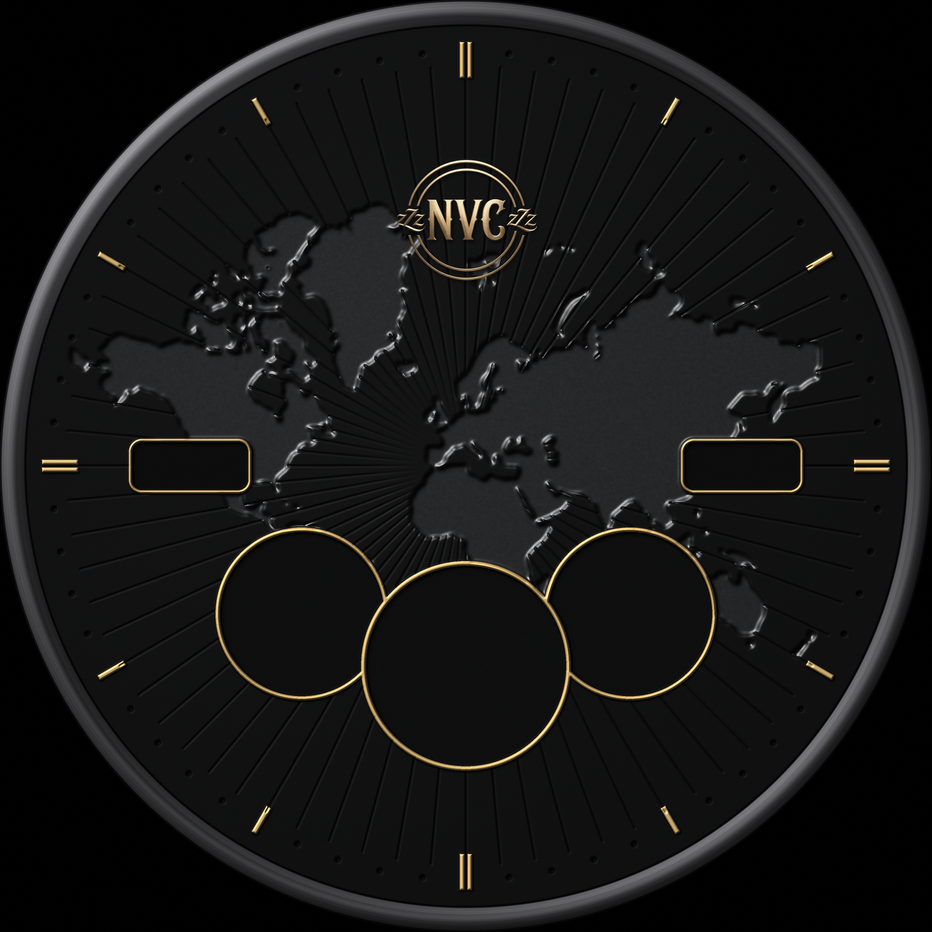
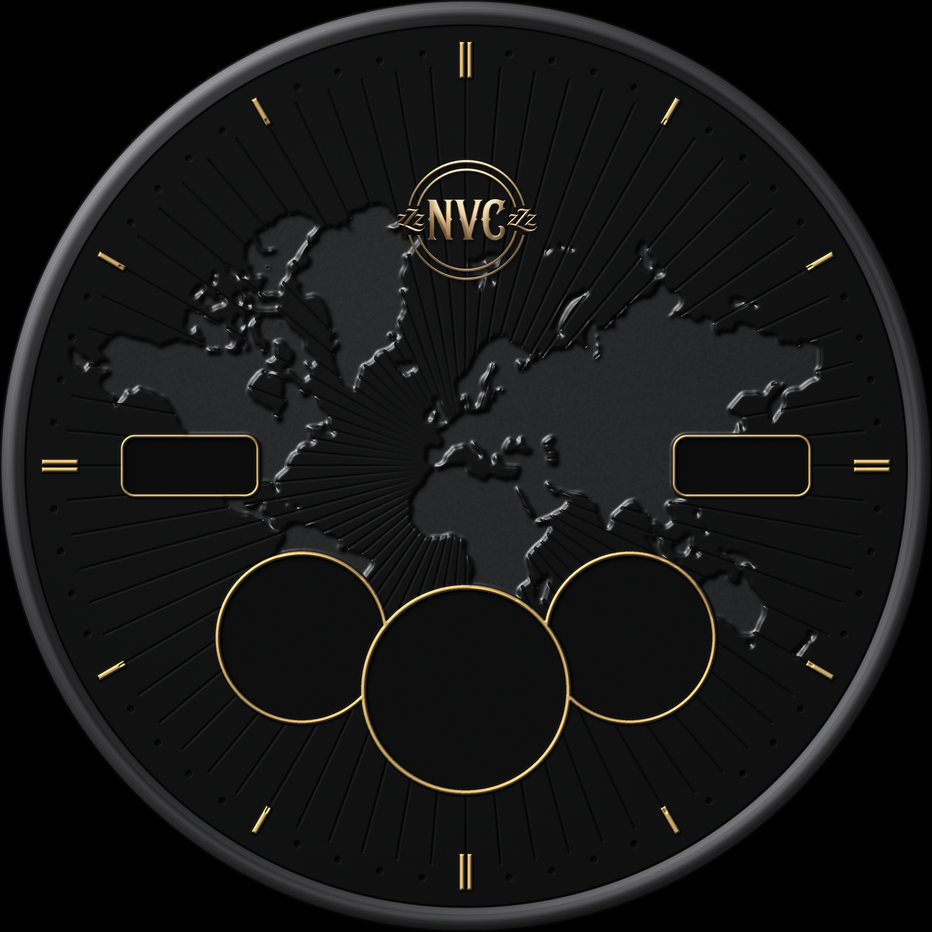
fix: larger date and battery windows, sub-dials 12 px lower

Changed region(s): [[0.2178, 0.4667, 0.8712, 0.8712], [0.1245, 0.4667, 0.28, 0.5601]]

diff --git a/art/blender/current.py b/art/blender/current.py
@@ -82,8 +82,8 @@ dial.data.materials.append(dial_material())
 wk.lathe("bezel", [(220.6, 0.05), (221.3, 0.45), (223.5, 0.70), (229.5, 0.66), (232.6, 0.35), (233, 0.0),
                    (233, -1.0)], BEZEL)
 
-CENTER = (0.0, 100.0, 50.0, 52.4)
-SIDES = [(-82.0, 74.0, 41.0, 43.2), (82.0, 74.0, 41.0, 43.2)]
+CENTER = (0.0, 112.0, 50.0, 52.4)   # must match art/render_bg.py
+SIDES = [(-82.0, 86.0, 41.0, 43.2), (82.0, 86.0, 41.0, 43.2)]
 # gold rims. The centre dial sits on top (design §5.3): its rim is whole and the side rims stop
 # against it, so nothing of the side dials shows inside the centre one (user, 2026-11-23).
 cx_, cy_, r_, ro_ = CENTER
@@ -93,8 +93,8 @@ for i, (x, y, r, ro) in enumerate(SIDES):
 wk.torus("rim_centre", cx_, cy_, (r_ + ro_) / 2, (ro_ - r_) / 20 + 0.03, 0.05, GOLD_POL)
 
 for i, (x, y) in enumerate([(138.0, 0.0), (-138.0, 0.0)]):
-    fr = wk.box(f"win_frame{i}", x, y, 61.2, 27.2, -0.02, 0.08, 0, GOLD, bevel=0.04)
-    wk.boolean_cut(fr, wk.box(f"cut_frame{i}", x, y, 58, 24, -1, 1, 0, BLACK, bevel=0))
+    fr = wk.box(f"win_frame{i}", x, y, 69.2, 31.2, -0.02, 0.08, 0, GOLD, bevel=0.04)  # window 66x28 + 1.6 frame
+    wk.boolean_cut(fr, wk.box(f"cut_frame{i}", x, y, 66, 28, -1, 1, 0, BLACK, bevel=0))
 
 # gold indices: double bars at 12, 3, 6 and 9; single bars elsewhere
 for h in range(12):

diff --git a/art/render_bg.py b/art/render_bg.py
@@ -29,10 +29,10 @@ DIAL_R = 219.6
 BEZEL_IN, BEZEL_OUT = 221.0, 233.0
 # sub-esferas: x, y, radio del fondo, radio exterior del aro.
 # La central es mayor y queda por encima: su aro corta los de las laterales.
-CENTER_WELL = (0.0, 100.0, 50.0, 52.4)   # mas grande y mas abajo a peticion del usuario (2026-11-23); era (0, 88, 44, 46.4)
-SIDE_WELLS = [(-82.0, 74.0, 41.0, 43.2), (82.0, 74.0, 41.0, 43.2)]   # era (+-72, 62, 36, 38.2)
+CENTER_WELL = (0.0, 112.0, 50.0, 52.4)   # 12 mas abajo a peticion del usuario (2026-11-23); antes (0, 100) y (0, 88, 44, 46.4)
+SIDE_WELLS = [(-82.0, 86.0, 41.0, 43.2), (82.0, 86.0, 41.0, 43.2)]   # antes (+-82, 74) y (+-72, 62, 36, 38.2)
 WELLS = [CENTER_WELL] + SIDE_WELLS
-WIN_W, WIN_H, WIN_RAD, WIN_FRAME = 58.0, 24.0, 5.0, 1.6   # agrandadas a peticion del usuario (2026-11-23)
+WIN_W, WIN_H, WIN_RAD, WIN_FRAME = 66.0, 28.0, 5.5, 1.6   # agrandadas a peticion del usuario (2026-11-23; antes 58x24 y 46x19)
 WINDOWS = [(138.0, 0.0), (-138.0, 0.0)]               # 3 h: fecha | 9 h: bateria
 LOGO_CX, LOGO_CY, LOGO_W = 0.0, -123.0, 72.0   # subido 17 a peticion del usuario (2026-11-23); era -106
 

diff --git a/docs/superpowers/specs/2026-11-22-nvc-watchface-design.md b/docs/superpowers/specs/2026-11-22-nvc-watchface-design.md
@@ -101,11 +101,11 @@ cierran canales de menos de ~1,7 unidades.
 | Índices del resto de horas | una barra r 197–212, 2,6 de ancho |
 | Puntos de minutería | r 207, radio 1,3; no hay punto en las horas |
 | Logo NVC | centrado en **(233, 110)** (subido el 2026-11-23; era (233, 127)), 72 de ancho (proporción del original: 144×124 a 2×) |
-| Ventana de fecha (3 h) | centro (371, 233), hueco **58×24**, radio 5 (agrandada el 2026-11-23; era 46×19), marco dorado 1,6 |
+| Ventana de fecha (3 h) | centro (371, 233), hueco **66×28**, radio 5,5 (agrandada el 2026-11-23; antes 58×24 y 46×19), marco dorado 1,6 |
 | Ventana de batería (9 h) | centro (95, 233), mismas medidas |
-| Sub-esfera izquierda · actividad | centro **(151, 307)**, fondo **r 41**, aro hasta r 43,2 (2026-11-23: más grande y más abajo; era (161, 295), r 36) |
-| **Sub-esfera central · glucosa** | centro **(233, 333)**, fondo **r 50**, aro hasta r 52,4 (2026-11-23; era (233, 321), r 44); aro de glucosa r 43,5; **queda por encima**: su aro corta los de las laterales |
-| Sub-esfera derecha · tiempo | centro **(315, 307)**, fondo **r 41**, aro hasta r 43,2 (2026-11-23; era (305, 295), r 36) |
+| Sub-esfera izquierda · actividad | centro **(151, 319)**, fondo **r 41**, aro hasta r 43,2 (2026-11-23: más grande y más abajo; era (161, 295), r 36) |
+| **Sub-esfera central · glucosa** | centro **(233, 345)**, fondo **r 50**, aro hasta r 52,4 (2026-11-23; era (233, 321), r 44); aro de glucosa r 43,5; **queda por encima**: su aro corta los de las laterales |
+| Sub-esfera derecha · tiempo | centro **(315, 319)**, fondo **r 41**, aro hasta r 43,2 (2026-11-23; era (305, 295), r 36) |
 | Mapa | proyección Mercator, meridiano central 10° E, 1,04 unidades por grado, latitudes 84° N a 57° S, centrado 11 unidades por encima del centro |
 
 Todo lo anterior va **dentro de la imagen de fondo** (`art/out/bg_bajo.png`). Encima sólo van las
@@ -119,7 +119,7 @@ capas dinámicas de §5.4.
 
 | Zona | Contenido en pantalla activa | Fuente del dato |
 |---|---|---|
-| Fecha (ventana 3 h) | «DOM» en oro + «22» en blanco, **17 px** (era ~12,5; en el reloj se veía pequeño; WFF sólo admite tamaños enteros) | día de la semana abreviado y día del mes, en el idioma del reloj (español) |
+| Fecha (ventana 3 h) | «DOM» en oro + «22» en blanco, **20 px** (antes 17 y ~12,5; en el reloj se veía pequeño; WFF sólo admite tamaños enteros) | día de la semana abreviado y día del mes, en el idioma del reloj (español) |
 | Batería (ventana 9 h) | icono de pila con relleno proporcional + «86%»; en **rojo** cuando está baja | porcentaje de batería |
 | Actividad (izquierda) | el icono que mande la complicación asignada, centrado y algo desplazado hacia la izquierda, lejos del solape | complicación de imagen / atajo de app |
 | **Glucosa (centro)** | aro de progreso r 38,5 (trazo 3) según el valor dentro del rango; valor grande (**36 px**, peso 600); flecha de tendencia (último carácter del texto de la propia complicación, «185→»); unidad «mg/dL»; antigüedad de la lectura («hace 4 min») | complicación *Ranged Value*; si el proveedor sólo ofrece *Short Text*, número y texto sin aro |
